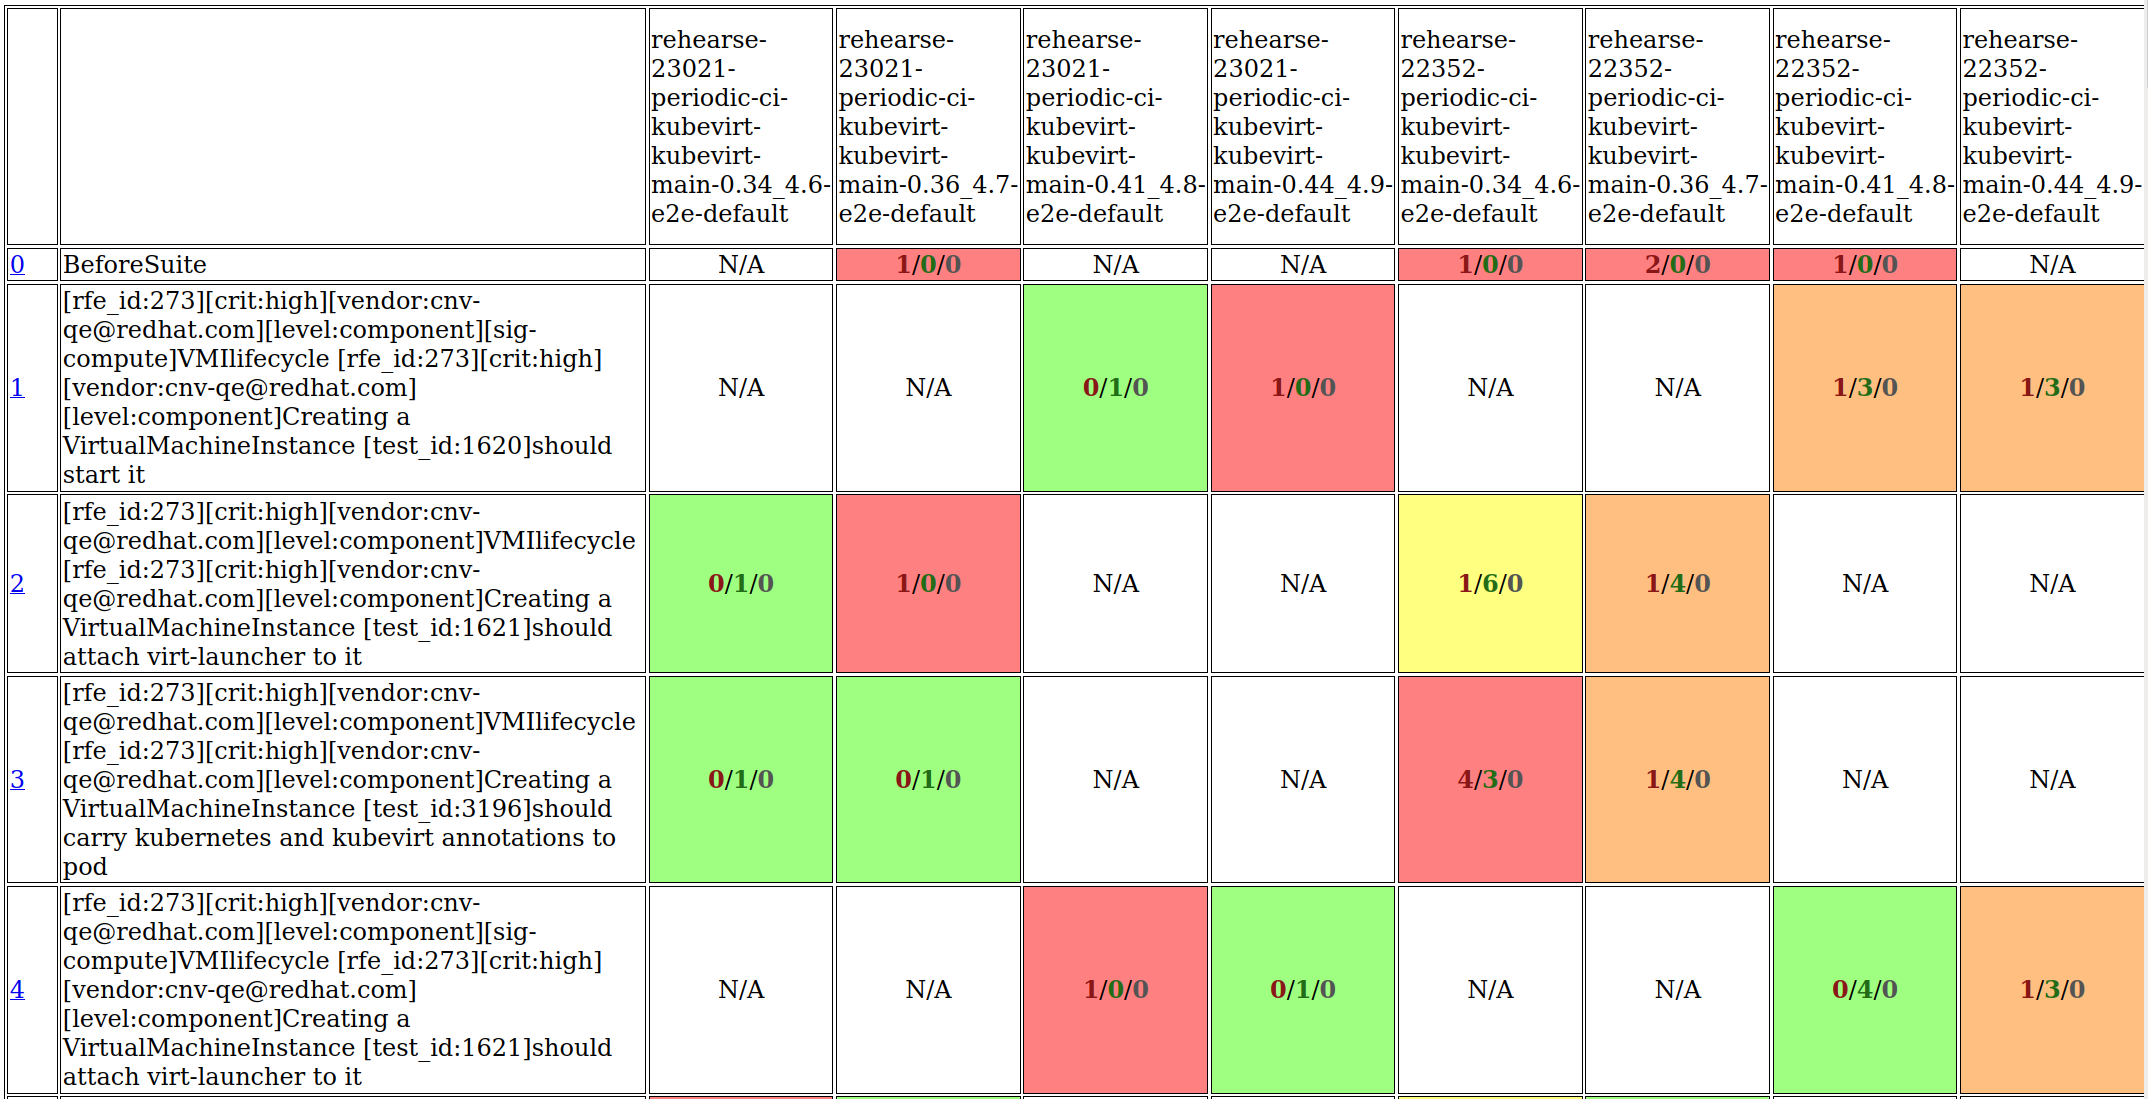
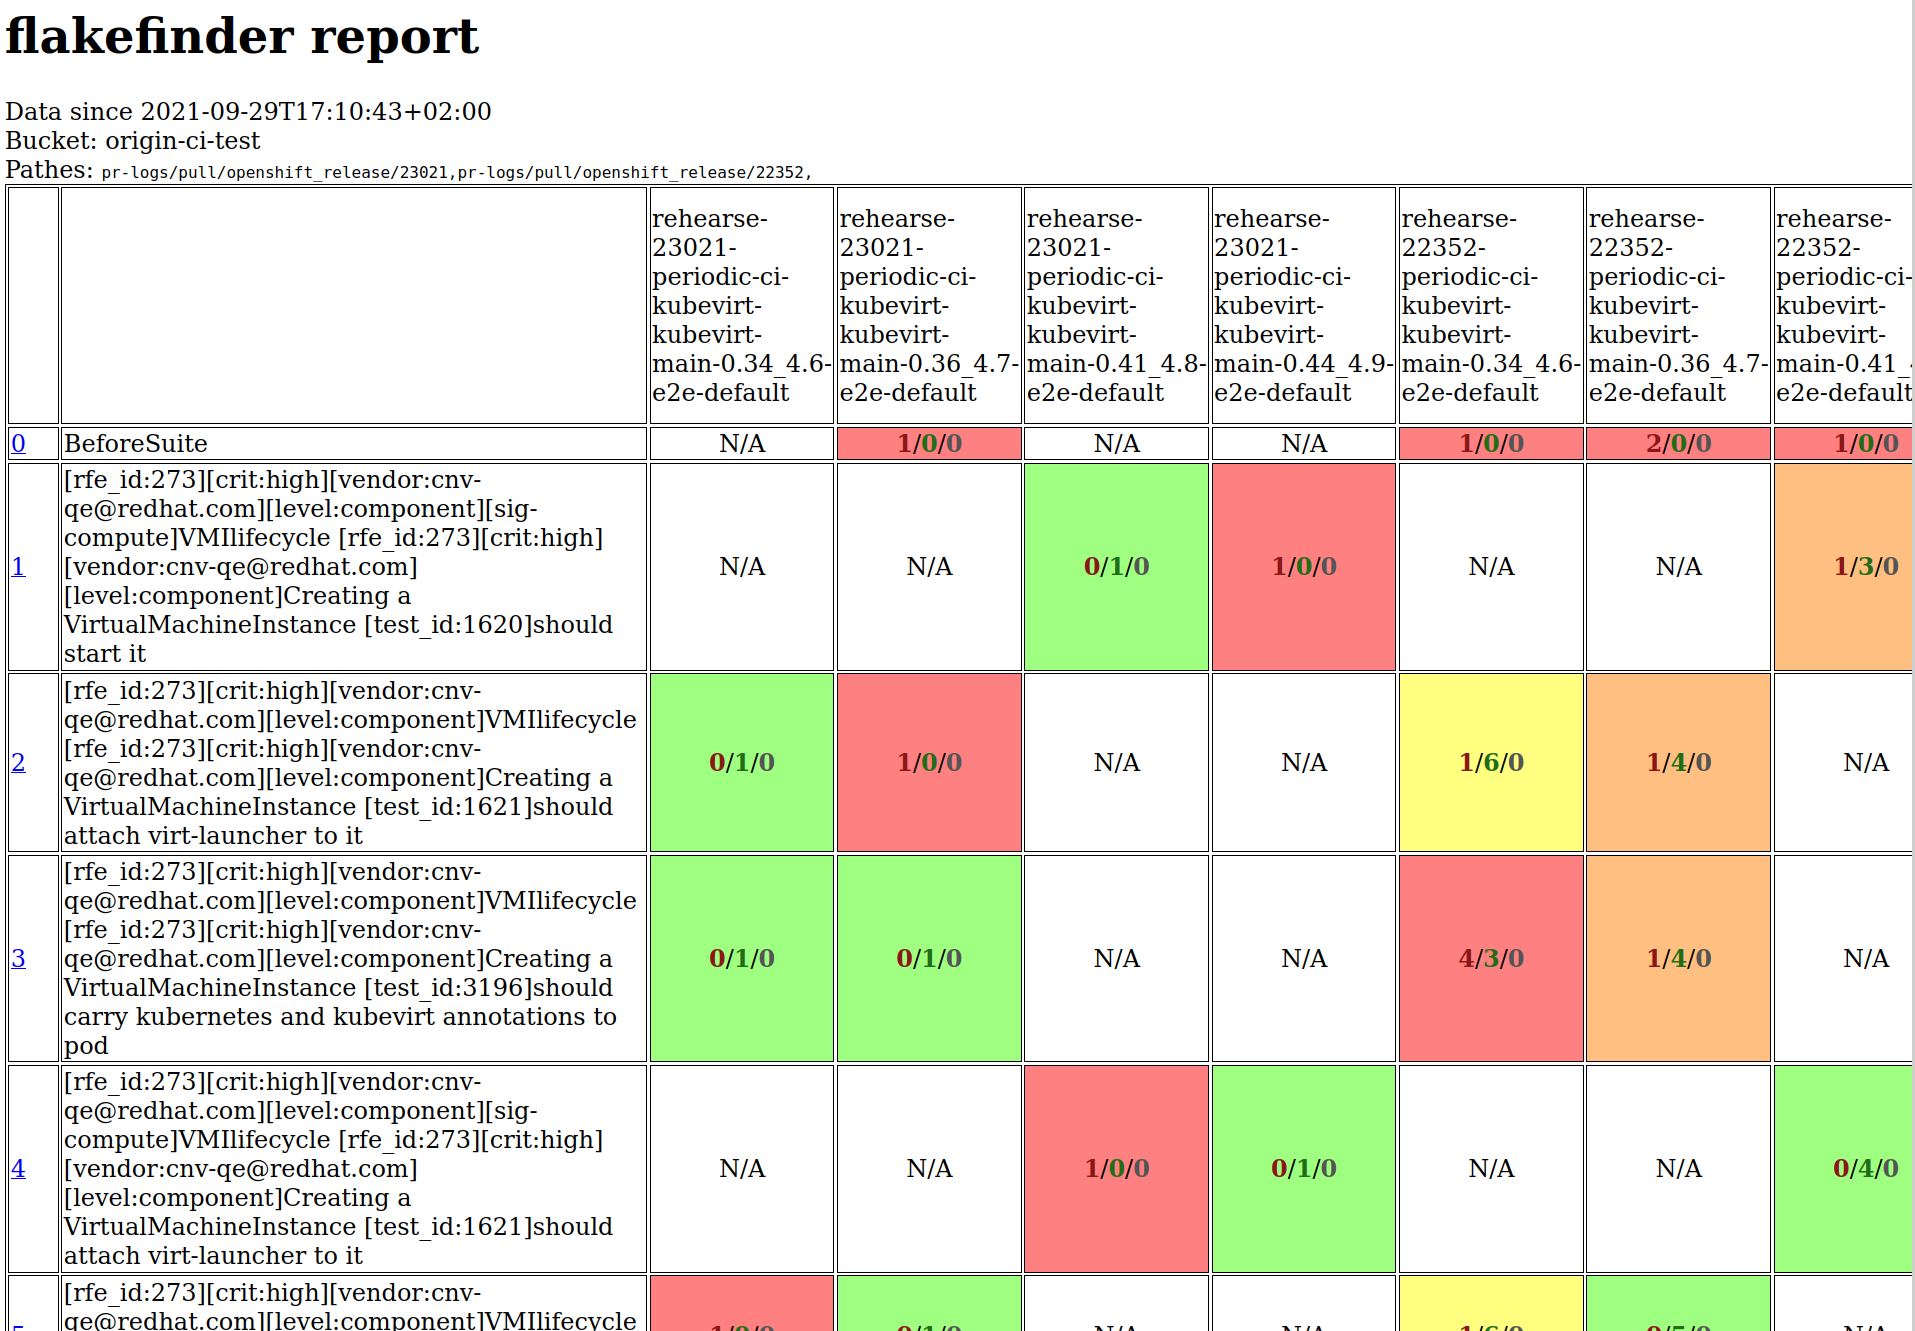
Add usecase periodics

diff --git a/robots/cmd/flake-report-creator/main.go b/robots/cmd/flake-report-creator/main.go
@@ -25,6 +25,7 @@ import (
 	"fmt"
 	"log"
 	"os"
+	"path"
 	"regexp"
 	"strings"
 	"time"
@@ -36,14 +37,13 @@ import (
 
 func flagOptions() options {
 	o := options{}
-	flag.StringVar(&o.org, "org", Org, "GitHub org name")
-	flag.StringVar(&o.repo, "repo", Repo, "GitHub org name")
-	flag.StringVar(&o.bucketName, "bucket-name", Repo, "The name of the GCS bucket")
-	flag.StringVar(&o.gcsBaseUrl, "gcs-http-link-base-url", GCSBaseUrl, "The GCS http base url to link to job results")
+	flag.StringVar(&o.bucketName, "bucket-name", "", "The name of the GCS bucket")
 	flag.Var(&o.jobDataPathes, "job-data-path", "Path below the same bucket to retrieve the data from. May occur more than once")
 	flag.StringVar(&o.outputFile, "output-file", "", "Path to output file, if not given, a temporary file will be used")
 	flag.BoolVar(&o.overwrite, "overwrite", false, "Whether to overwrite output file")
 	flag.StringVar(&o.matchingSubDirRegExp, "sub-dir-regex", "", "Regular expression for matching sub directories (will optimize runtime)")
+	flag.BoolVar(&o.useSubDirs, "use-sub-dirs", true, "Whether to fetch the subdirectories of each data path and then retrieve the data or to try to directly retrieve the data")
+	flag.DurationVar(&o.startFrom, "start-from", 14*24*time.Hour, "The duration when the report data should be fetched")
 	flag.Parse()
 	return o
 }
@@ -71,21 +71,20 @@ type options struct {
 	outputFile           string
 	overwrite            bool
 	matchingSubDirRegExp string
+	useSubDirs           bool
+	startFrom            time.Duration
 }
 
 type SimpleReportParams struct {
 	flakefinder.Params
-	GCSBaseUrl string
-	BucketName string
+	BucketName    string
+	JobDataPathes []string
 }
 
-const Org = "kubevirt"
-const Repo = "kubevirt"
-const GCSBaseUrl = "https://prow.ci.kubevirt.io/view/gcs"
 const ReportTemplate = `
 <html>
 <head>
-    <title>{{ $.Org }}/{{ $.Repo }} - flakefinder report</title>
+    <title>flakefinder report</title>
     <meta charset="UTF-8">
     <style>
         table, th, td {
@@ -130,6 +129,13 @@ const ReportTemplate = `
 	</style>
 </head>
 <body>
+<h1>flakefinder report</h1>
+
+<div>
+	Data since {{ $.StartOfReport }}<br/>
+	Bucket: {{ $.BucketName }}<br/>
+	Pathes: {{ range $path := $.JobDataPathes }}<code>{{ $path }},</code>{{ end }}
+</div>
 <table>
     <tr>
         <td></td>
@@ -199,21 +205,31 @@ func main() {
 		log.Fatal(fmt.Errorf("failed to write report: %v", err))
 	}
 
+	startOfReport := time.Now().Add(-1 * o.startFrom)
+
 	reports := []*flakefinder.JobResult{}
 	var subDirRegex *regexp.Regexp
 	if o.matchingSubDirRegExp != "" {
 		subDirRegex = regexp.MustCompile(o.matchingSubDirRegExp)
 	}
 	for _, dataPath := range o.jobDataPathes {
-		subDirs, err := flakefinder.ListGcsObjects(ctx, storageClient, o.bucketName, dataPath+"/", "/")
-		if err != nil {
-			log.Printf("failed to list objects for dataPath %v: %v", dataPath, err)
-		}
-		for _, subDir := range subDirs {
-			if subDirRegex != nil && !subDirRegex.MatchString(subDir) {
-				continue
+		if o.useSubDirs {
+			subDirs, err := flakefinder.ListGcsObjects(ctx, storageClient, o.bucketName, dataPath+"/", "/")
+			if err != nil {
+				log.Printf("failed to list objects for dataPath %v: %v", dataPath, err)
 			}
-			results, err := flakefinder.FindUnitTestFilesForPeriodicJob(ctx, storageClient, o.bucketName, []string{dataPath, subDir}, minTime, maxTime)
+			for _, subDir := range subDirs {
+				if subDirRegex != nil && !subDirRegex.MatchString(subDir) {
+					continue
+				}
+				results, err := flakefinder.FindUnitTestFilesForPeriodicJob(ctx, storageClient, o.bucketName, []string{dataPath, subDir}, startOfReport, maxTime)
+				if err != nil {
+					log.Printf("failed to load JUnit files for job %v: %v", path.Join(dataPath, subDir), err)
+				}
+				reports = append(reports, results...)
+			}
+		} else {
+			results, err := flakefinder.FindUnitTestFilesForPeriodicJob(ctx, storageClient, o.bucketName, []string{dataPath}, startOfReport, maxTime)
 			if err != nil {
 				log.Printf("failed to load JUnit files for job %v: %v", dataPath, err)
 			}
@@ -221,11 +237,11 @@ func main() {
 		}
 	}
 
-	parameters := flakefinder.CreateFlakeReportData(reports, []int{}, maxTime, Org, Repo, minTime)
+	parameters := flakefinder.CreateFlakeReportData(reports, []int{}, maxTime, o.org, o.repo, startOfReport)
 
 	log.Printf("writing output file to %s", o.outputFile)
 
-	err = flakefinder.WriteTemplateToOutput(ReportTemplate, SimpleReportParams{parameters, o.gcsBaseUrl, o.bucketName}, reportOutputWriter)
+	err = flakefinder.WriteTemplateToOutput(ReportTemplate, SimpleReportParams{parameters, o.bucketName, o.jobDataPathes}, reportOutputWriter)
 	if err != nil {
 		log.Fatal(fmt.Errorf("failed to write report: %v", err))
 	}

diff --git a/robots/pkg/flakefinder/downloader.go b/robots/pkg/flakefinder/downloader.go
@@ -46,7 +46,7 @@ const (
 var testJobNameRegex *regexp.Regexp
 
 func init() {
-	testJobNameRegex = regexp.MustCompile(".*-(e2e-[a-z\\d]+)$")
+	testJobNameRegex = regexp.MustCompile(".*-(e2e(-[a-z\\d]+)?)$")
 }
 
 func FindUnitTestFiles(ctx context.Context, client *storage.Client, bucket, repo string, pr *github.PullRequest, startOfReport time.Time, skipBeforeStartOfReport bool) ([]*JobResult, error) {
@@ -197,7 +197,7 @@ func FindUnitTestFilesForPeriodicJob(ctx context.Context, client *storage.Client
 				}
 
 				submatches := testJobNameRegex.FindStringSubmatch(lastJobDirectoryPathElement)
-				testJobName := submatches[len(submatches)-1]
+				testJobName := submatches[1] // take the first submatch here, see regex for details
 				openShiftCIPath := path.Join(artifactsDirPath, fmt.Sprintf("%s/test/artifacts", testJobName), "junit.functest.xml")
 				data, err = readGcsObject(ctx, client, bucket, openShiftCIPath)
 				if err == storage.ErrObjectNotExist {

diff --git a/robots/cmd/flake-report-creator/README.md b/robots/cmd/flake-report-creator/README.md
@@ -1,23 +1,66 @@
 flake-report-creator
 ====================
 
-aims to use the flakefinder logic of creating reports for a set of GCS job directories, whereas it just fetches all subdirectories, tries to find junit files and returns a report of the aggregated data.
+aims to use the flakefinder logic of creating reports for a set of GCS job directories, whereas it just fetches all subdirectories, tries to find junit files and returns a report of the aggregated data. In general we can  generate a matrix of flakiness over several runs of several jobs.
 
-This enables a user to create an ad-hoc report of any GCS directories that contain kubevirt testing junit files, regardless of whether they actually are of the same type, in turn enabling a report of flaky tests over different job types or even just selected PRs. The user needs to make sure whether that makes sense of course 😏
+This tool enables a user to create an ad-hoc report of any GCS directories that contain kubevirt testing junit files, in turn enabling a report over unrelated or just selected PRs, or a selected set of periodic jobs. The user needs to make sure whether that makes sense of course 😏
+
+**Note: job results older than two weeks are skipped by default. Use `--start-from` argument to extend the range to older results**
 
 Usage
 -----
 
-Example: we want to create a report from all job runs of two PRs on openshift-ci. We want to see the flakiness in a matrix over those two PRs. But we want to skip all jobs that don't match a certain regular expression.
+**Example 1:** we want to create a report from all job runs of two PRs on openshift-ci.  But we want to skip all jobs that don't match a certain regular expression.
+
+*NB1: we use `start-from` here as some test results would have been skipped, as this was a quite long running PR*
+*NB2: we use `sub-dir-regex` here to filter out other unimportant jobs (openshift-ci related validation checks i.e)*
 
 ```bash
 $ bazel run //robots/cmd/flake-report-creator -- \
+    --start-from=720h \
     --sub-dir-regex='.*-(e2e-[a-z\d]+)$' \
     --bucket-name=origin-ci-test \
     --job-data-path=pr-logs/pull/openshift_release/23021 \
     --job-data-path=pr-logs/pull/openshift_release/22352
+
 ...
 2021/10/29 12:57:54 main.go:216: writing output file to /tmp/flakefinder-3764038013.html
 ```
 
-Result: ![Report for example 1](./example_1.png)
+Result: ![Example 1 Report](./example_1.png)
+
+**Example 2:** we want to create a report over a set of periodics on openshift-ci.
+
+The default values will create a report for the last 14 days.
+
+```bash
+$ bazel run //robots/cmd/flake-report-creator -- --bucket-name=origin-ci-test \
+    --use-sub-dirs=false \
+    --job-data-path=logs/periodic-ci-kubevirt-kubevirt-main-0.34_4.6-e2e \
+    --job-data-path=logs/periodic-ci-kubevirt-kubevirt-main-0.36_4.7-e2e \
+    --job-data-path=logs/periodic-ci-kubevirt-kubevirt-main-0.41_4.8-e2e \
+    --job-data-path=logs/periodic-ci-kubevirt-kubevirt-main-0.44_4.9-e2e \
+    --job-data-path=logs/periodic-ci-kubevirt-kubevirt-main-nightly_4.10-e2e
+...
+2021/10/29 16:39:54 main.go:241: writing output file to /tmp/flakefinder-1095073378.html
+```
+
+Result: ![Example 2 Report](./example_2.png)
+
+**Example 3:** we want to create a report over a set of selected periodics for kubevirtci.
+
+The default values will create a report for the last 14 days.
+
+```bash
+$ bazel run //robots/cmd/flake-report-creator -- --bucket-name=kubevirt-prow \
+    --use-sub-dirs=false \
+    --job-data-path=logs/periodic-kubevirt-e2e-k8s-1.22-sig-storage \
+    --job-data-path=logs/periodic-kubevirt-e2e-k8s-1.21-sig-storage \
+    --job-data-path=logs/periodic-kubevirt-e2e-k8s-1.20-sig-storage
+
+...
+INFO[0118] Skipping test results before 2021-10-15 17:22:50.286379347 +0200 CEST m=-1209599.993786708 for logs/periodic-kubevirt-e2e-k8s-1.20-sig-storage/1449002154302902272 in bucket 'kubevirt-prow' 
+2021/10/29 17:24:49 main.go:242: writing output file to /tmp/flakefinder-3053258374.html
+```
+
+Result: ![Example 3 Report](./example_3.png)
